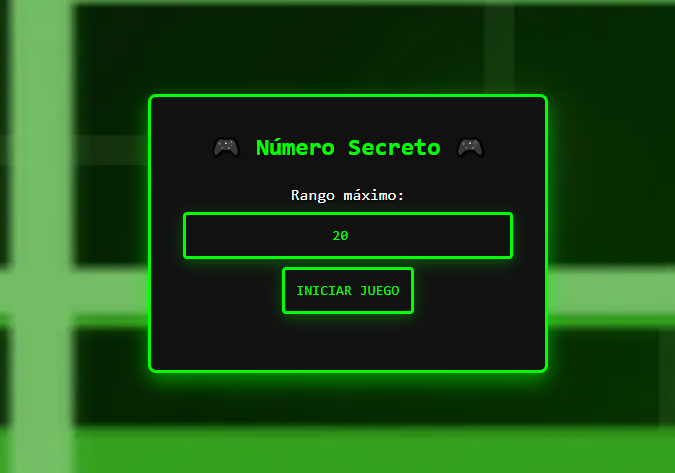
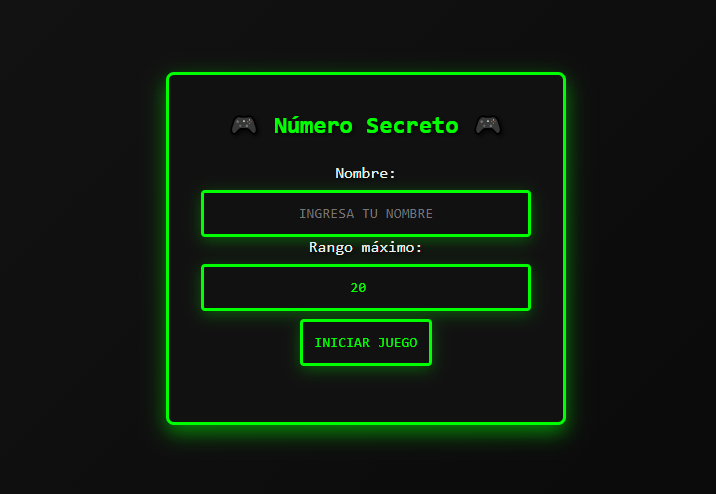
Versión final actualizada

diff --git a/css/styles.css b/css/styles.css
@@ -8,27 +8,18 @@
 body {
   font-family: "Press Start 2P", monospace;
   min-height: 100vh;
+  margin: 0;
   display: flex;
+  flex-direction: column;
   align-items: center;
   justify-content: center;
   background: linear-gradient(135deg, #0d0d0d, #1a1a1a, #000000);
-  background-image: url("../assets/fondo.webp");
+  background-size: 400% 400%;
   background-repeat: no-repeat;
-  color: #fff;
-  text-shadow: 1px 1px 2px #000;
-}
-
-/* Background Animation */
-@keyframes backgroundAnimation {
-  0% {
-    background-position: 0% 50%;
-  }
-  50% {
-    background-position: 100% 50%;
-  }
-  100% {
-    background-position: 0% 50%;
-  }
+  color: #f0f0f0;
+  text-shadow: 2px 2px 4px rgba(0, 0, 0, 0.7);
+  animation: gradientMove 8s ease infinite;
+  scroll-behavior: smooth;
 }
 
 .game-container {
@@ -89,7 +80,7 @@ h1 {
 }
 
 .pixel-btn.disabled {
-  opacity: 1; 
+  opacity: 1;
   cursor: pointer;
 }
 
@@ -137,5 +128,29 @@ h1 {
   to {
     opacity: 1;
     transform: translateY(0);
+  }
+}
+
+@keyframes gradientMove {
+  0% {
+    background-position: 0% 50%;
+  }
+  50% {
+    background-position: 100% 50%;
+  }
+  100% {
+    background-position: 0% 50%;
+  }
+}
+
+@keyframes backgroundAnimation {
+  0% {
+    background-position: 0% 50%;
+  }
+  50% {
+    background-position: 100% 50%;
+  }
+  100% {
+    background-position: 0% 50%;
   }
 }

diff --git a/index.html b/index.html
@@ -10,7 +10,6 @@
         <div class="game-container">
             <h1>🎮 Número Secreto 🎮</h1>
             <div class="settings" id="settings">
-                <!-- Solo muestra el campo de nombre si el nombre no está guardado -->
                 <div id="nameField">
                     <label for="name">Nombre: </label>
                     <input type="text" id="name" placeholder="Ingresa tu nombre" class="pixel-input">
